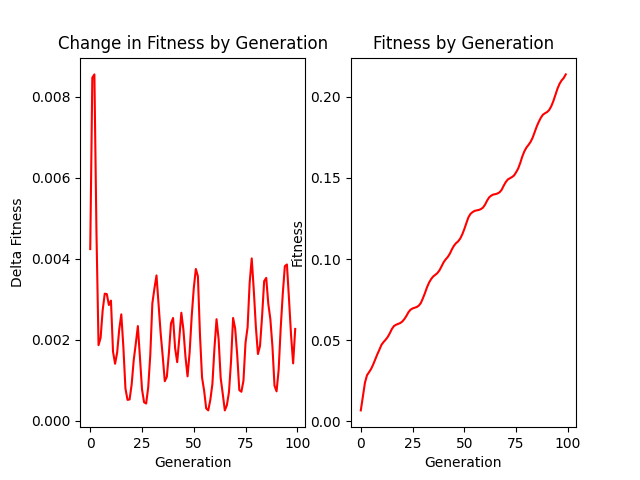
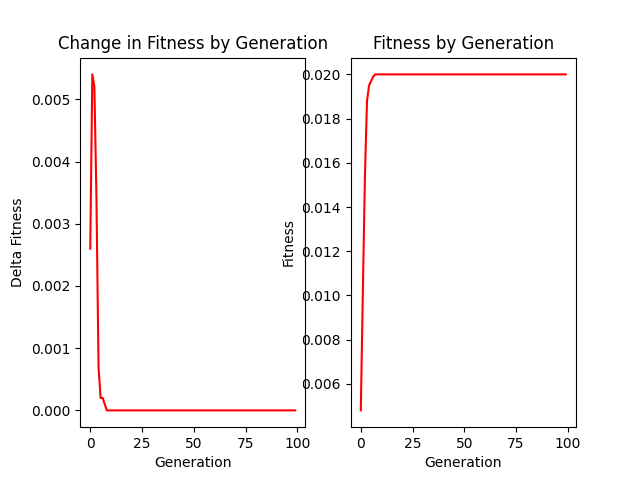
homogeneous starting population

diff --git a/transfer-too.py b/transfer-too.py
@@ -3,7 +3,7 @@ from matplotlib import pyplot as plt
 import random
 
 def average_fitness(genome):
-    return np.average(np.sum(genome, axis=1) * U_b) #TODO ask about what an appropriate function here is, because right now there's no consistent fitness improvement
+    return np.average(np.sum(genome, axis=1) * U_b)
 
 def horizontal_gene_transfer(genome):
     # source retains allele, recipient receives allele from source
@@ -46,19 +46,19 @@ def reproductive_update(genome):
 
 if __name__ == '__main__':
     ### PARAMS ##
-    population = 1000
+    population = 10**5
     polymorphic_sites = 5
     U_b = 0.01
-    activated_proportion = 0.05
+    # activated_proportion = 0.01
     generations = 100
     mutation_prob = 10 ** -3
-    num_recombinations = 1 #TODO on order of beneficial mutation rate
+    num_recombinations = 100 #TODO on order of beneficial mutation rate
     ### PARAMS ###
 
     genome = np.zeros((population, polymorphic_sites))
 
-    for i in range(population):
-        genome[i] = np.array([np.random.binomial(1, activated_proportion) for _ in range(polymorphic_sites)])
+    # for i in range(population):
+    #     genome[i] = np.array([np.random.binomial(1, activated_proportion) for _ in range(polymorphic_sites)])
 
     old_fitness = average_fitness(genome)
     fitness_deltas = []
